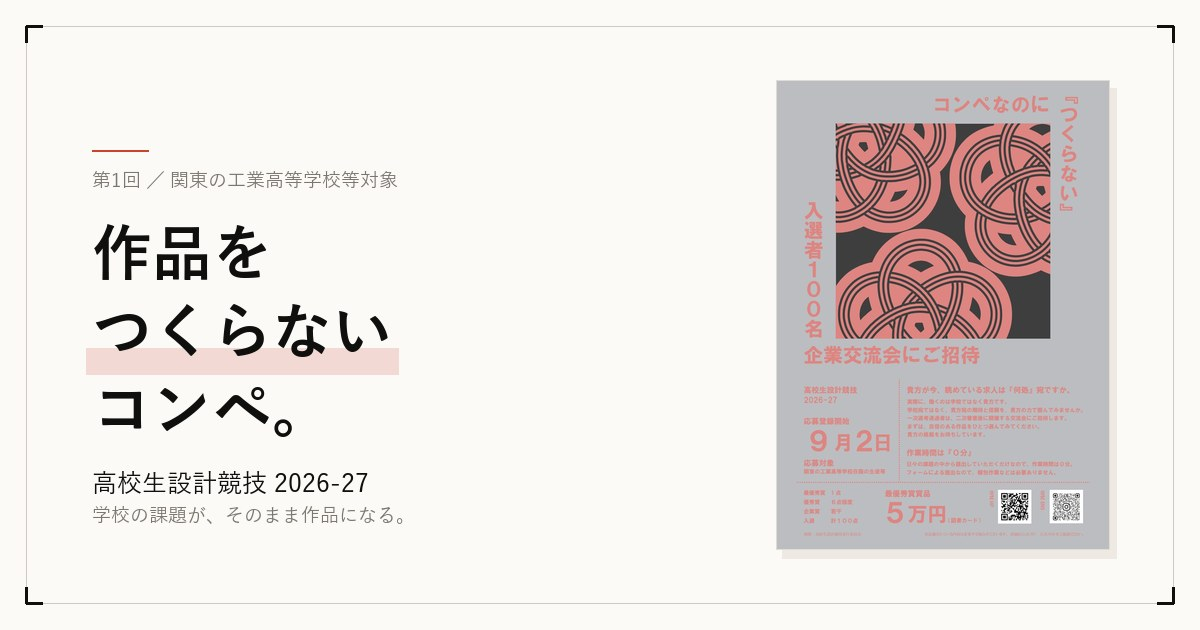
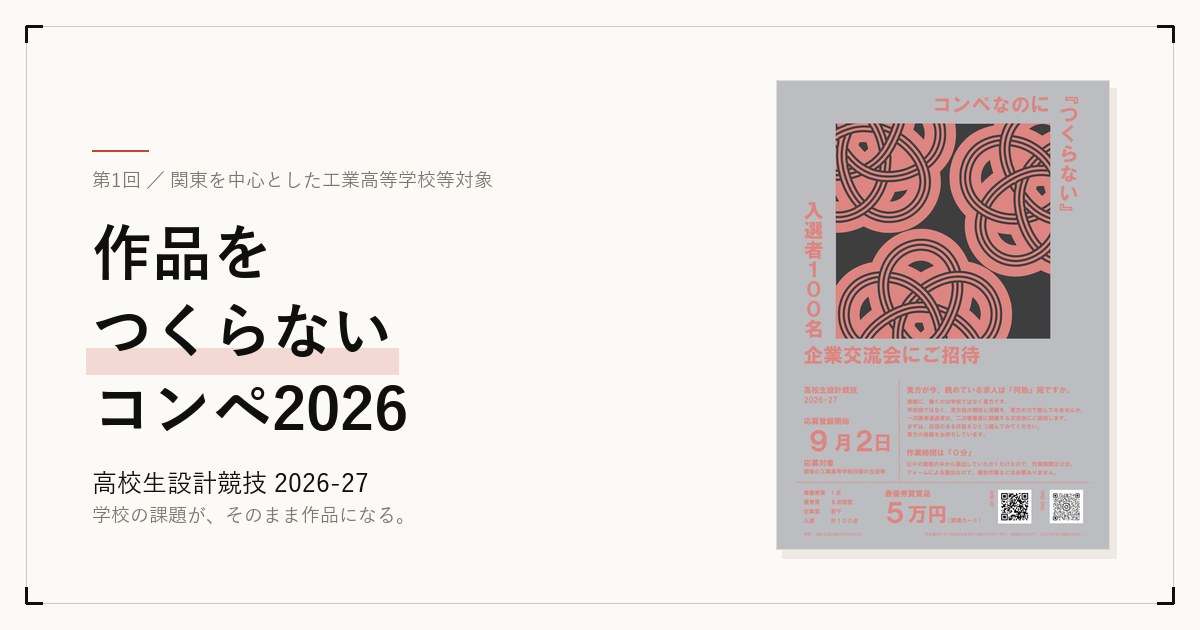
Broaden eligibility wording to 関東を中心とした工業高等学校等

Changed region(s): [[0.2158, 0.6032, 0.3392, 0.6937], [0.1542, 0.2714, 0.4317, 0.3016]]

diff --git a/public/index.html b/public/index.html
@@ -4,14 +4,14 @@
 <meta charset="UTF-8">
 <meta name="viewport" content="width=device-width, initial-scale=1">
 <title>作品をつくらないコンペ2026 | 公式サイト</title>
-<meta name="description" content="関東の工業高等学校等に在籍する生徒を対象とした設計競技です。新たに作品をつくる必要はなく、学校の授業や課題で取り組んだ設計作品をそのまま応募できます。参加費無料、入選100点程度、最優秀賞は図書カード5万円。">
+<meta name="description" content="関東を中心とした工業高等学校等に在籍する生徒を対象とした設計競技です。新たに作品をつくる必要はなく、学校の授業や課題で取り組んだ設計作品をそのまま応募できます。参加費無料、入選100点程度、最優秀賞は図書カード5万円。">
 <meta name="robots" content="index,follow,max-image-preview:large">
 <link rel="canonical" href="https://competitive.roperope675.workers.dev/">
 
 <meta property="og:type" content="website">
 <meta property="og:site_name" content="高校生設計競技 2026-27">
 <meta property="og:title" content="作品をつくらないコンペ2026 | 公式サイト">
-<meta property="og:description" content="学校の授業や課題で取り組んだ設計作品を、そのまま応募できる設計競技。関東の工業高等学校等の生徒対象、参加費無料。">
+<meta property="og:description" content="学校の授業や課題で取り組んだ設計作品を、そのまま応募できる設計競技。関東を中心とした工業高等学校等の生徒対象、参加費無料。">
 <meta property="og:url" content="https://competitive.roperope675.workers.dev/">
 <meta property="og:image" content="https://competitive.roperope675.workers.dev/og.jpg">
 <meta property="og:image:width" content="1200">
@@ -30,7 +30,7 @@
   "alternateName":"High School Architectural Design Competition 2026-27",
   "url":"https://competitive.roperope675.workers.dev/",
   "inLanguage":"ja",
-  "description":"関東の工業高等学校等に在籍する生徒を対象とした設計競技。学校の授業や課題で取り組んだ設計作品をそのまま応募できます。",
+  "description":"関東を中心とした工業高等学校等に在籍する生徒を対象とした設計競技。学校の授業や課題で取り組んだ設計作品をそのまま応募できます。",
   "publisher":{
     "@type":"Organization",
     "name":"建築競技会",
@@ -339,7 +339,7 @@ footer{border-top:1px solid var(--line);}
 
 <div id="top" class="hero">
   <div class="yearmark">2026<br>—27<small>FIRST EDITION</small></div>
-  <div class="kicker"><s></s>第1回／関東の工業高校生等対象</div>
+  <div class="kicker"><s></s>第1回／関東を中心とした工業高等学校等対象</div>
   <h1>作品を<br><u>つくらない</u>コンペ2026</h1>
   <p class="lede">学校の課題が、そのまま作品になります。授業や課題で取り組んだ<b>設計作品を、そのまま応募</b>できる設計競技です。</p>
   <div class="hero-cta">
@@ -363,7 +363,7 @@ footer{border-top:1px solid var(--line);}
     <div class="sec">
       <div class="sec-label"><span class="n">01</span><h2>開催概要</h2><span class="en">ABOUT</span></div>
       <div>
-        <p class="lead">本競技は、関東の工業高等学校等に在籍する生徒を対象とした設計競技です。<strong>新たに作品を制作する必要はありません。</strong>授業や課題で取り組んだ設計作品を、そのまま応募することができます。設計に取り組んだ高校生と、その力を求める企業とをつなぐ場をめざします。</p>
+        <p class="lead">本競技は、関東を中心とした工業高等学校等に在籍する生徒を対象とした設計競技です。<strong>新たに作品を制作する必要はありません。</strong>授業や課題で取り組んだ設計作品を、そのまま応募することができます。設計に取り組んだ高校生と、その力を求める企業とをつなぐ場をめざします。</p>
         <div class="cards">
           <article><div class="n">01</div><h3>課題作品で<br>そのまま応募</h3><p>授業で描いた図面や模型写真を、そのまま提出できます。</p></article>
           <article><div class="n">02</div><h3>Googleフォームで<br>完結</h3><p>個人で応募。応募登録、作品提出はGoogleフォームで行います。</p></article>
@@ -388,7 +388,7 @@ footer{border-top:1px solid var(--line);}
       <div class="sec-label"><span class="n">02</span><h2>募集要項</h2><span class="en">REQUIREMENTS</span></div>
       <div>
         <dl class="spec">
-          <div><dt>応募資格</dt><dd>2026年4月現在、関東の工業高等学校等在籍の生徒。応募は個人とする。</dd></div>
+          <div><dt>応募資格</dt><dd>2026年4月現在、関東を中心とした工業高等学校等在籍の生徒。応募は個人とする。</dd></div>
           <div><dt>応募作品</dt><dd>授業や課題で取り組んだ設計作品。</dd></div>
           <div><dt>提出物</dt><dd>授業や課題で取り組んだ設計作品<br>（※デジタルデータにて提出）<br>・用紙サイズ、図面内容、表現内容については問わない</dd></div>
           <div><dt>応募方法</dt><dd>応募登録・作品提出ともにGoogleフォームより受付<br>・<a class="inline-link" href="https://forms.gle/mcup1A3jh1yTpLjW9" target="_blank" rel="noopener">応募登録フォームはこちら</a><br>・作品提出フォームは<span class="tbd">準備中</span>です。公開次第、本サイトおよび公式SNSでお知らせします。</dd></div>
